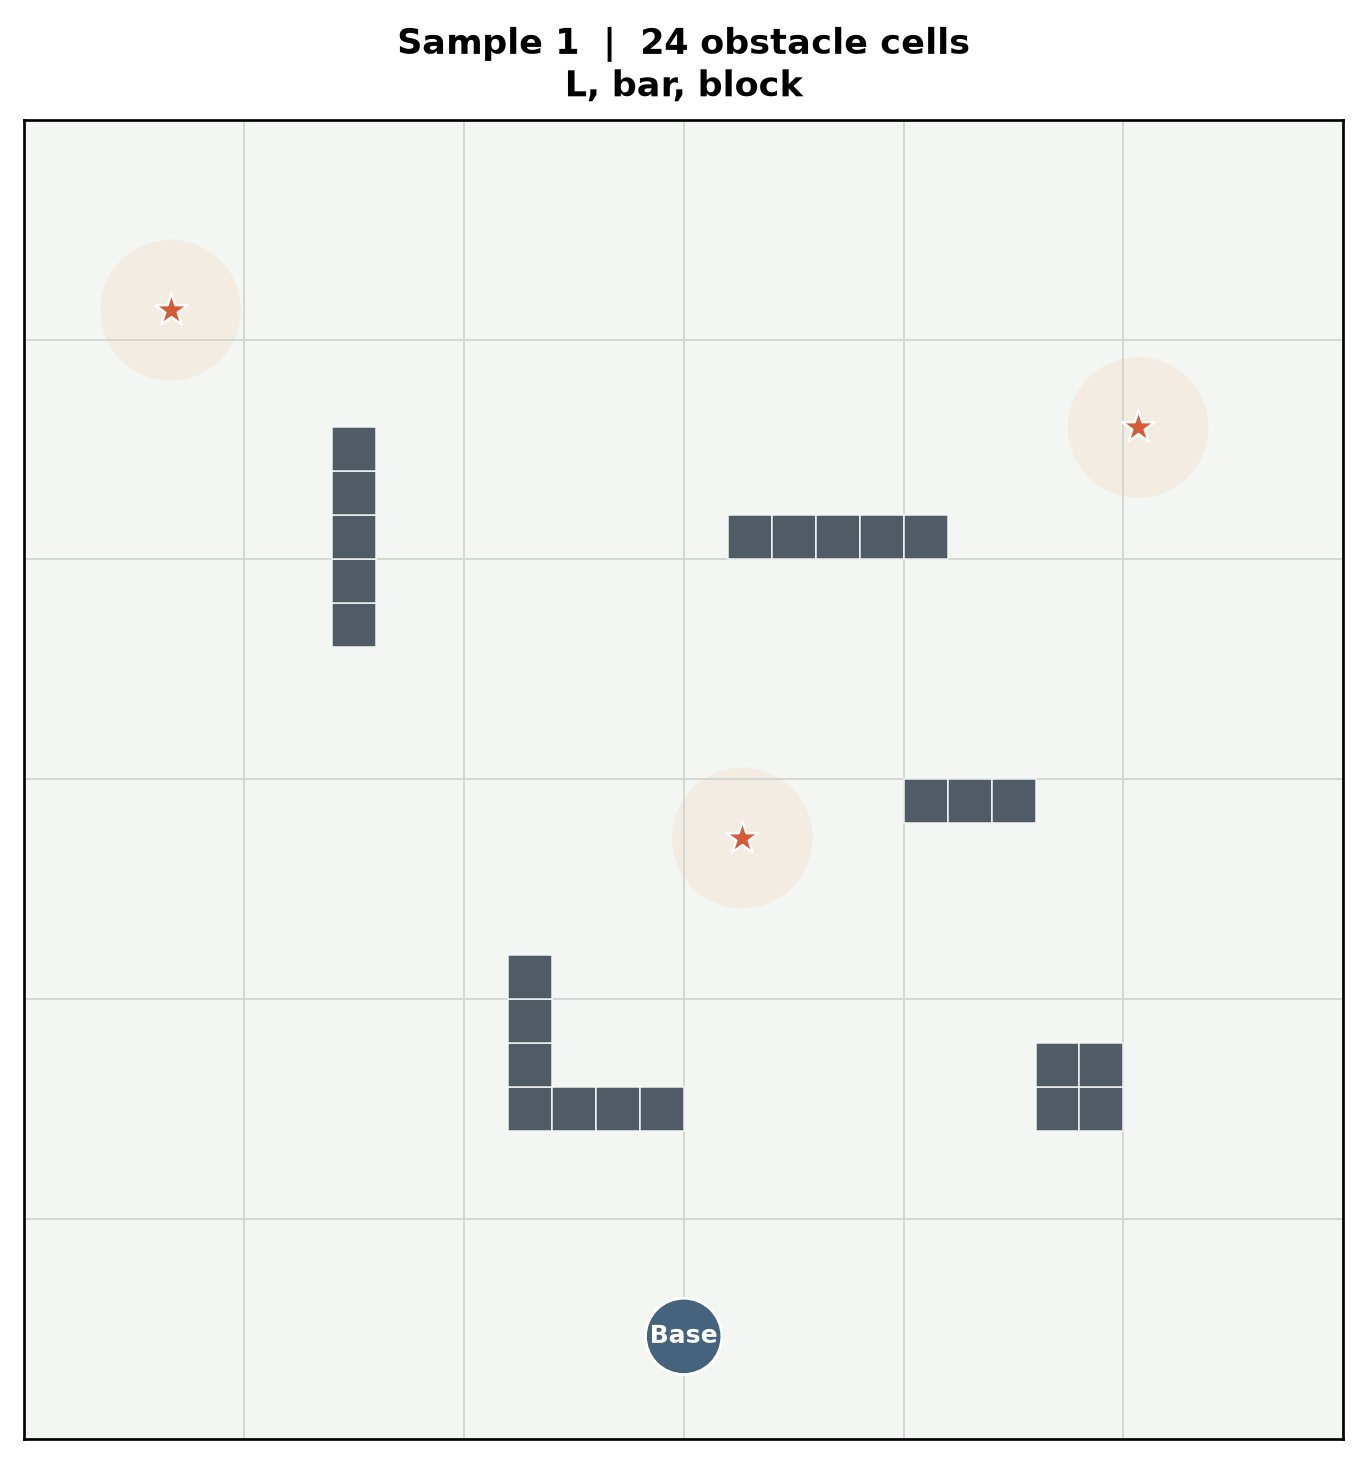
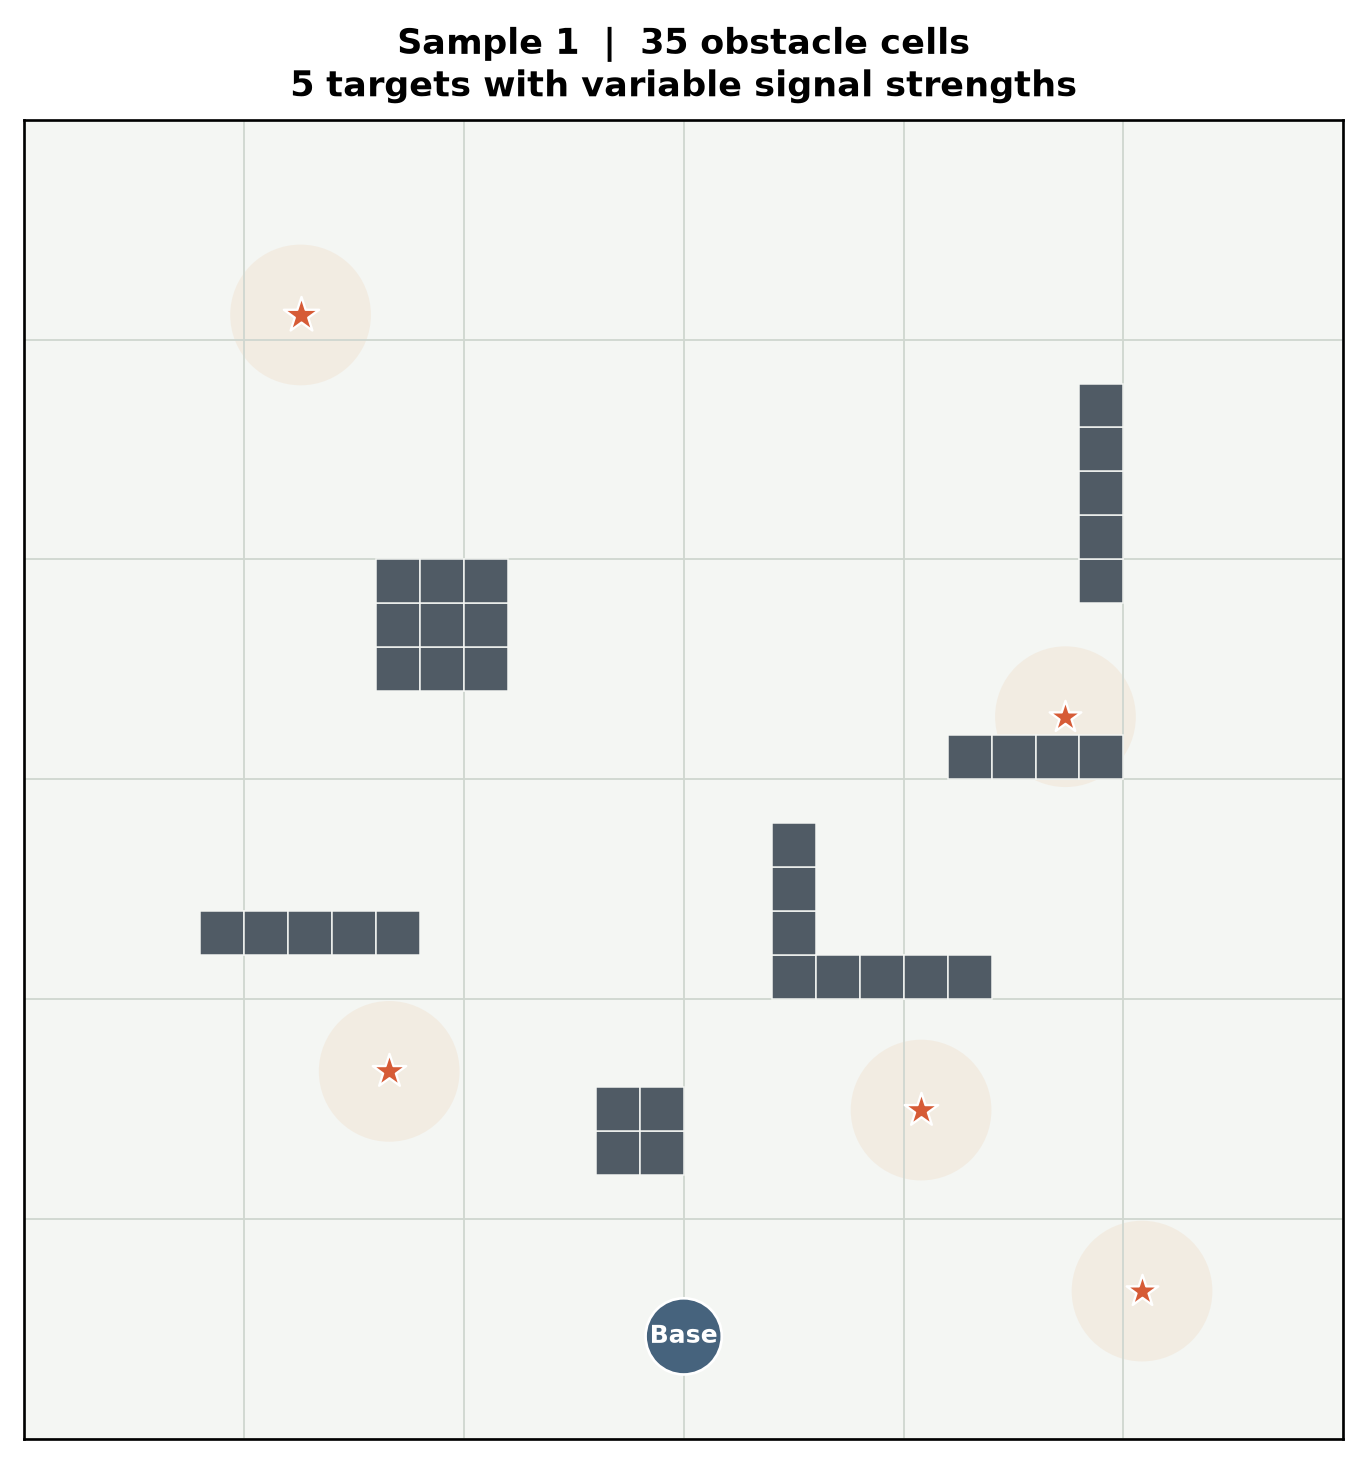
Randomize target count positions and signal strengths

diff --git a/signal_search_env.py b/signal_search_env.py
@@ -14,26 +14,30 @@ RewardVariant = Literal["coverage", "signal", "shared_signal"]
 class SignalSearchEnv:
     """Search hidden static targets using only local signal and coverage observations.
 
-    Targets and 1x3 no-fly obstacles are sampled from several layouts at reset. Their coordinates are never
-    placed in the policy observation. Every undiscovered target emits a local field:
-    3 at its cell, 2 in nearby cells, 1 farther away, 0 elsewhere. The UAV sees only
-    its 3x3 neighbourhood. UAVs share their coverage maps and found-target status
+    Each episode samples a new obstacle map, target count, target positions, and target-signal strengths.
+    Target coordinates are never
+    placed in the policy observation. Every undiscovered target emits a local field;
+    each target samples its own signal strength and the field weakens with distance.
+    The UAV sees only its 3x3 neighbourhood. UAVs share their coverage maps and found-target status
     perfectly in this baseline (communication interference is intentionally absent).
     """
 
     def __init__(
         self,
         num_agents: int = 2,
-        num_targets: int = 3,
+        min_targets: int = 2,
+        max_targets: int = 5,
         grid_size: int = 30,
         max_steps: int = 420,
         reward_variant: RewardVariant = "signal",
         seed: int | None = None,
     ) -> None:
-        if num_agents != 2 or num_targets != 3:
-            raise ValueError("This baseline is intentionally fixed to two UAVs and three targets")
+        if num_agents != 2 or not 1 <= min_targets <= max_targets:
+            raise ValueError("Use two UAVs and a valid target-count range")
         self.num_agents = num_agents
-        self.num_targets = num_targets
+        self.min_targets = min_targets
+        self.max_targets = max_targets
+        self.target_count = min_targets
         self.grid_size = grid_size
         self.max_steps = max_steps
         self.reward_variant = reward_variant
@@ -42,7 +46,9 @@ class SignalSearchEnv:
         self.detect_radius = 0.18
         self.cell_width = 2.0 * self.boundary / grid_size
         self.world = self._make_world()
-        self.discovered = np.zeros(num_targets, dtype=bool)
+        self.active_targets = np.zeros(max_targets, dtype=bool)
+        self.discovered = np.zeros(max_targets, dtype=bool)
+        self.target_strengths = np.zeros(max_targets, dtype=np.float32)
         self.covered = np.zeros((grid_size, grid_size), dtype=bool)
         self.obstacles = np.zeros((grid_size, grid_size), dtype=bool)
         self.known_coverage = np.zeros((num_agents, grid_size, grid_size), dtype=bool)
@@ -57,9 +63,9 @@ class SignalSearchEnv:
 
     @property
     def obs_dim(self) -> int:
-        # self pos/vel, teammate rel-pos, found status, and local coverage/signal/obstacle
-        # patches, followed by shared coverage fraction and UAV id. No global route hint is given.
-        return 4 + 2 + self.num_targets + 9 + 9 + 9 + 1 + self.num_agents
+        # self pos/vel, teammate rel-pos, active/found target masks, and local
+        # coverage/signal/obstacle patches, followed by shared coverage fraction and UAV id.
+        return 4 + 2 + 2 * self.max_targets + 9 + 9 + 9 + 1 + self.num_agents
 
     def _make_world(self) -> World:
         world = World()
@@ -78,7 +84,7 @@ class SignalSearchEnv:
             agent.color = np.array([0.15 + 0.45 * i, 0.4, 0.85 - 0.35 * i])
             world.agents.append(agent)
         world.landmarks = []
-        for k in range(self.num_targets):
+        for k in range(self.max_targets):
             target = Landmark()
             target.name = f"hidden_target_{k}"
             target.size = 0.035
@@ -87,18 +93,6 @@ class SignalSearchEnv:
             target.color = np.array([0.85, 0.16, 0.14])
             world.landmarks.append(target)
         return world
-
-    def _layouts(self) -> list[np.ndarray]:
-        return [
-            np.array([[-1.75, 1.60], [1.55, 1.20], [0.20, -0.20]], dtype=np.float32),
-            np.array([[-1.55, -0.15], [1.70, 1.75], [-0.25, 1.10]], dtype=np.float32),
-            np.array([[-1.80, 0.35], [1.35, -1.00], [1.40, 1.65]], dtype=np.float32),
-            np.array([[-1.20, 1.75], [0.48, -1.12], [1.85, 0.25]], dtype=np.float32),
-            np.array([[-1.72, 1.10], [0.72, 1.62], [1.72, -0.62]], dtype=np.float32),
-            np.array([[-0.78, -0.55], [1.42, 0.62], [-1.55, 1.78]], dtype=np.float32),
-            np.array([[-1.68, 0.20], [0.40, 1.62], [1.65, -0.72]], dtype=np.float32),
-            np.array([[-1.22, -0.78], [1.52, 1.25], [-1.65, 1.50]], dtype=np.float32),
-        ]
 
     def _obstacle_samples(self) -> list[list[tuple[str, int, int, int, int]]]:
         """Eight obstacle maps: bars, blocks, L-shapes, and irregular combinations.
@@ -134,11 +128,31 @@ class SignalSearchEnv:
                 mask[cell_x, cell_y] = True
         return mask
 
+    def _sample_target_positions(self, count: int) -> np.ndarray:
+        """Sample separated free cells, keeping targets away from the shared launch base."""
+        free_cells = np.argwhere(~self.obstacles)
+        centers = -self.boundary + (free_cells.astype(np.float32) + 0.5) * self.cell_width
+        launch_base = np.array([0.0, -1.90], dtype=np.float32)
+        candidates = centers[np.linalg.norm(centers - launch_base, axis=1) >= 0.78]
+        selected: list[np.ndarray] = []
+        for index in self.rng.permutation(len(candidates)):
+            candidate = candidates[index]
+            if all(np.linalg.norm(candidate - existing) >= 0.76 for existing in selected):
+                jitter = self.rng.uniform(-0.035, 0.035, size=2).astype(np.float32)
+                selected.append(candidate + jitter)
+                if len(selected) == count:
+                    break
+        if len(selected) != count:
+            raise RuntimeError("Could not place the requested number of separated targets")
+        return np.asarray(selected, dtype=np.float32)
+
     def reset(self, seed: int | None = None) -> np.ndarray:
         if seed is not None:
             self.rng = np.random.default_rng(seed)
         self.steps = 0
         self.discovered[:] = False
+        self.active_targets[:] = False
+        self.target_strengths[:] = 0.0
         self.covered[:] = False
         self.obstacles[:] = False
         self.known_coverage[:] = False
@@ -154,11 +168,16 @@ class SignalSearchEnv:
             agent.state.c = np.zeros(0, dtype=np.float32)
             agent.action.u = np.zeros(2, dtype=np.float32)
             agent.action.c = np.zeros(0, dtype=np.float32)
-        layout_index = int(self.rng.integers(len(self._layouts())))
-        layout = self._layouts()[layout_index]
-        self.obstacles[:] = self._obstacle_mask(self._obstacle_samples()[layout_index])
-        for target, pos in zip(self.world.landmarks, layout, strict=True):
-            target.state.p_pos = pos.copy()
+        obstacle_index = int(self.rng.integers(len(self._obstacle_samples())))
+        self.obstacles[:] = self._obstacle_mask(self._obstacle_samples()[obstacle_index])
+        self.target_count = int(self.rng.integers(self.min_targets, self.max_targets + 1))
+        self.active_targets[: self.target_count] = True
+        self.target_strengths[: self.target_count] = self.rng.choice(
+            np.array([1.0, 1.6, 2.2, 3.0], dtype=np.float32), size=self.target_count, replace=True
+        )
+        positions = self._sample_target_positions(self.target_count)
+        for index, target in enumerate(self.world.landmarks):
+            target.state.p_pos = positions[index].copy() if self.active_targets[index] else np.array([9.0, 9.0], dtype=np.float32)
             target.state.p_vel = np.zeros(2, dtype=np.float32)
         for i, pos in enumerate(self._positions()):
             cell = self._cell_of(pos)
@@ -177,16 +196,18 @@ class SignalSearchEnv:
     def _signal_value(self, cell: np.ndarray) -> float:
         center = -self.boundary + (cell.astype(np.float32) + 0.5) * self.cell_width
         value = 0.0
-        for found, target in zip(self.discovered, self.world.landmarks, strict=True):
-            if found:
+        for active, found, strength, target in zip(
+            self.active_targets, self.discovered, self.target_strengths, self.world.landmarks, strict=True
+        ):
+            if not active or found:
                 continue
             distance = float(np.linalg.norm(center - target.state.p_pos))
             if distance <= 0.18:
-                value = max(value, 3.0)
+                value = max(value, float(strength))
             elif distance <= 0.42:
-                value = max(value, 2.0)
+                value = max(value, float(0.65 * strength))
             elif distance <= 0.72:
-                value = max(value, 1.0)
+                value = max(value, float(0.30 * strength))
         return value
 
     def _patch(self, matrix: np.ndarray, cell: np.ndarray) -> np.ndarray:
@@ -216,6 +237,7 @@ class SignalSearchEnv:
                 pos,
                 vel,
                 self.world.agents[other].state.p_pos.astype(np.float32) - pos,
+                self.active_targets.astype(np.float32),
                 self.discovered.astype(np.float32),
                 self._patch(self.known_coverage[i].astype(np.float32), cell),
                 self._signal_patch(cell),
@@ -275,7 +297,7 @@ class SignalSearchEnv:
         target_reward = np.zeros(self.num_agents, dtype=np.float32)
         final_finder = -1
         for k, target in enumerate(self.world.landmarks):
-            if self.discovered[k]:
+            if not self.active_targets[k] or self.discovered[k]:
                 continue
             distances = np.linalg.norm(positions - target.state.p_pos, axis=1)
             nearby = np.flatnonzero(distances <= self.detect_radius)
@@ -294,7 +316,7 @@ class SignalSearchEnv:
         individual = target_reward + new_cells - 0.1 * repeats - 5.0 * collisions - 2.0 * obstacle_hits - 0.005 * movement - 0.01
         if self.reward_variant in {"signal", "shared_signal"}:
             individual += 0.8 * signal_gain
-        success = bool(self.discovered.all())
+        success = bool(self.discovered[self.active_targets].all())
         if success and final_finder >= 0:
             individual[final_finder] += 20.0
         if self.reward_variant == "shared_signal":
@@ -304,7 +326,8 @@ class SignalSearchEnv:
         done = success or self.steps >= self.max_steps
         info = {
             "success": float(success),
-            "targets_found": float(self.discovered.sum()),
+            "targets_found": float(self.discovered[self.active_targets].sum()),
+            "target_count": float(self.target_count),
             "coverage": float(np.logical_and(self.covered, ~self.obstacles).sum() / (~self.obstacles).sum()),
             "repeat_events": float(repeats.sum()),
             "collisions": float(collisions.sum() / 2.0),
@@ -320,8 +343,11 @@ class SignalSearchEnv:
                 signal[x, y] = self._signal_value(np.array([x, y]))
         return {
             "positions": self._positions().copy(),
-            "targets": np.asarray([target.state.p_pos for target in self.world.landmarks], dtype=np.float32).copy(),
-            "found": self.discovered.copy(),
+            "targets": np.asarray(
+                [target.state.p_pos for index, target in enumerate(self.world.landmarks) if self.active_targets[index]], dtype=np.float32
+            ).copy(),
+            "found": self.discovered[self.active_targets].copy(),
+            "signal_strengths": self.target_strengths[self.active_targets].copy(),
             "coverage": self.covered.copy(),
             "obstacles": self.obstacles.copy(),
             "signal": signal,

diff --git a/make_signal_video.py b/make_signal_video.py
@@ -26,7 +26,7 @@ def main() -> None:
     parser.add_argument(
         "--model",
         type=Path,
-        default=ROOT / "signal_experiments" / "diverse_obstacle_signal" / "maddpg_actor.pt",
+        default=ROOT / "signal_experiments" / "randomized_search" / "maddpg_actor.pt",
         help="trained actor checkpoint",
     )
     parser.add_argument(
@@ -101,7 +101,8 @@ def main() -> None:
     sensing = [plt.Circle((0, 0), 0.25, facecolor=color, edgecolor=color, linewidth=1, alpha=0.08, zorder=3) for color in colors]
     for ring in sensing:
         ax.add_patch(ring)
-    targets = [ax.plot([], [], marker="*", markersize=15, color="#e8751a", markeredgecolor="white", markeredgewidth=0.8, zorder=6)[0] for _ in range(env.num_targets)]
+    target_count = int(frames[0]["info"]["target_count"])
+    targets = [ax.plot([], [], marker="*", markersize=15, color="#e8751a", markeredgecolor="white", markeredgewidth=0.8, zorder=6)[0] for _ in range(target_count)]
     status = ax.text(-env.boundary + 0.04, env.boundary - 0.04, "", va="top", ha="left", fontsize=10, bbox={"facecolor": "#f8f7f2", "alpha": 0.91, "edgecolor": "#c7cdc7"}, zorder=8)
     note = ax.text(env.boundary - 0.04, -env.boundary + 0.04, "Signal field shown for the viewer\nPolicy receives only local signal + obstacle patches", va="bottom", ha="right", fontsize=8.5, bbox={"facecolor": "#f8f7f2", "alpha": 0.91, "edgecolor": "#c7cdc7"}, zorder=8)
     _ = note
@@ -116,10 +117,10 @@ def main() -> None:
 
     def smooth_signal_field(data: dict[str, object]) -> np.ndarray:
         field = np.zeros_like(field_x)
-        for position, found in zip(data["targets"], data["found"], strict=True):
+        for position, found, strength in zip(data["targets"], data["found"], data["signal_strengths"], strict=True):
             if not found:
                 distance_squared = (field_x - position[0]) ** 2 + (field_y - position[1]) ** 2
-                field += np.exp(-distance_squared / (2 * 0.24**2))
+                field += (strength / 3.0) * np.exp(-distance_squared / (2 * 0.24**2))
         return np.clip(field, 0.0, 1.0)
 
     def update(frame_index: int):
@@ -138,7 +139,7 @@ def main() -> None:
             target.set_color("#1a9850" if data["found"][k] else "#de2d26")
         info = frame["info"]
         status.set_text(
-            f"Step {int(info['steps'])}   Targets found: {int(info['targets_found'])}/3\n"
+            f"Step {int(info['steps'])}   Targets found: {int(info['targets_found'])}/{int(info['target_count'])}\n"
             f"Coverage: {info['coverage']:.0%}   UAV collisions: {int(info['collisions'])}"
         )
         return [signal_image, covered_image, *path_lines, *drones, *sensing, *targets, status]

diff --git a/make_obstacle_samples.py b/make_obstacle_samples.py
@@ -30,19 +30,23 @@ def draw_sample(axis: plt.Axes, env: SignalSearchEnv, sample_index: int) -> None
     axis.set_yticklabels([])
     axis.tick_params(length=0)
     axis.grid(color="#d0d7d0", linewidth=0.55)
-    mask = env._obstacle_mask(env._obstacle_samples()[sample_index])
+    env.reset(seed=100 + sample_index)
+    data = env.render_data()
+    mask = data["obstacles"]
     for x, y in np.argwhere(mask):
         lower_left = -env.boundary + np.array([x, y]) * env.cell_width
         axis.add_patch(Rectangle(lower_left, env.cell_width, env.cell_width, facecolor="#505b65", edgecolor="#f4f6f3", linewidth=0.45, zorder=3))
-    for target in env._layouts()[sample_index]:
+    for target, strength in zip(data["targets"], data["signal_strengths"], strict=True):
         axis.add_patch(Circle(target, 0.24, facecolor="#e9a86c", alpha=0.12, edgecolor="none", zorder=1))
-        axis.scatter(target[0], target[1], marker="*", s=105, color="#d65b36", edgecolors="white", linewidths=0.7, zorder=4)
+        axis.scatter(target[0], target[1], marker="*", s=80 + 20 * strength, color="#d65b36", edgecolors="white", linewidths=0.7, zorder=4)
     axis.add_patch(Circle((0, -1.90), 0.13, facecolor="#46637d", edgecolor="white", linewidth=0.8, zorder=4))
     axis.text(0, -1.90, "Base", color="white", ha="center", va="center", fontsize=7.5, fontweight="bold", zorder=5)
-    specs = env._obstacle_samples()[sample_index]
-    shape_names = {"h": "bar", "v": "bar", "block": "block", "L": "L"}
-    kinds = ", ".join(sorted(set(shape_names[item[0]] for item in specs)))
-    axis.set_title(f"Sample {sample_index + 1}  |  {int(mask.sum())} obstacle cells\n{kinds}", fontsize=10.5, fontweight="semibold", pad=7)
+    axis.set_title(
+        f"Sample {sample_index + 1}  |  {int(mask.sum())} obstacle cells\n{len(data['targets'])} targets with variable signal strengths",
+        fontsize=10.5,
+        fontweight="semibold",
+        pad=7,
+    )
 
 
 def main() -> None:

diff --git a/make_site_diagram.py b/make_site_diagram.py
@@ -37,7 +37,7 @@ def main() -> None:
     axis.tick_params(length=0)
     axis.grid(color="#cbd2ca", linewidth=0.5)
     axis.set_title("Multi-UAV Cooperative Search Environment", fontsize=19, fontweight="semibold", pad=18)
-    axis.text(0, env.boundary + 0.13, "30 × 30 Grid   •   2 UAVs   •   3 Static Targets   •   Variable Obstacle Layout", ha="center", color="#566159", fontsize=10.5)
+    axis.text(0, env.boundary + 0.13, "30 × 30 Grid   •   2 UAVs   •   Random 2–5 Targets   •   Variable Obstacles", ha="center", color="#566159", fontsize=10.5)
 
     for x, y in np.argwhere(data["obstacles"]):
         lower_left = -env.boundary + np.array([x, y]) * env.cell_width

diff --git a/README.md b/README.md
@@ -1,12 +1,13 @@
 # Multi-UAV Cooperative Search
 
-A compact MADDPG baseline for two UAVs that cooperatively search for three hidden static targets in an MPE2 two-dimensional environment.
+A compact MADDPG baseline for two UAVs that cooperatively search for a random number of hidden static targets in an MPE2 two-dimensional environment.
 
 ## Current task
 
 - **Map:** 30 × 30 grid over a continuous 2D area.
 - **Agents:** two UAVs launched from the same base area.
-- **Targets:** three static targets per episode. Target coordinates are not included in the policy observation.
+- **Targets:** each episode samples 2–5 static targets at random free locations. Target coordinates are not included in the policy observation.
+- **Signal strength:** every target independently samples a signal strength from four levels; its signal weakens with distance.
 - **Obstacle samples:** eight layouts with different counts and combinations of bars, blocks, and L-shaped no-fly regions.
 - **Observation:** own position and velocity, relative teammate position, found-target status, and local 3 × 3 patches for coverage, signal strength, and obstacles.
 - **Communication baseline:** UAVs share coverage and found-target status without communication interference. Interference can be added after this baseline is stable.
